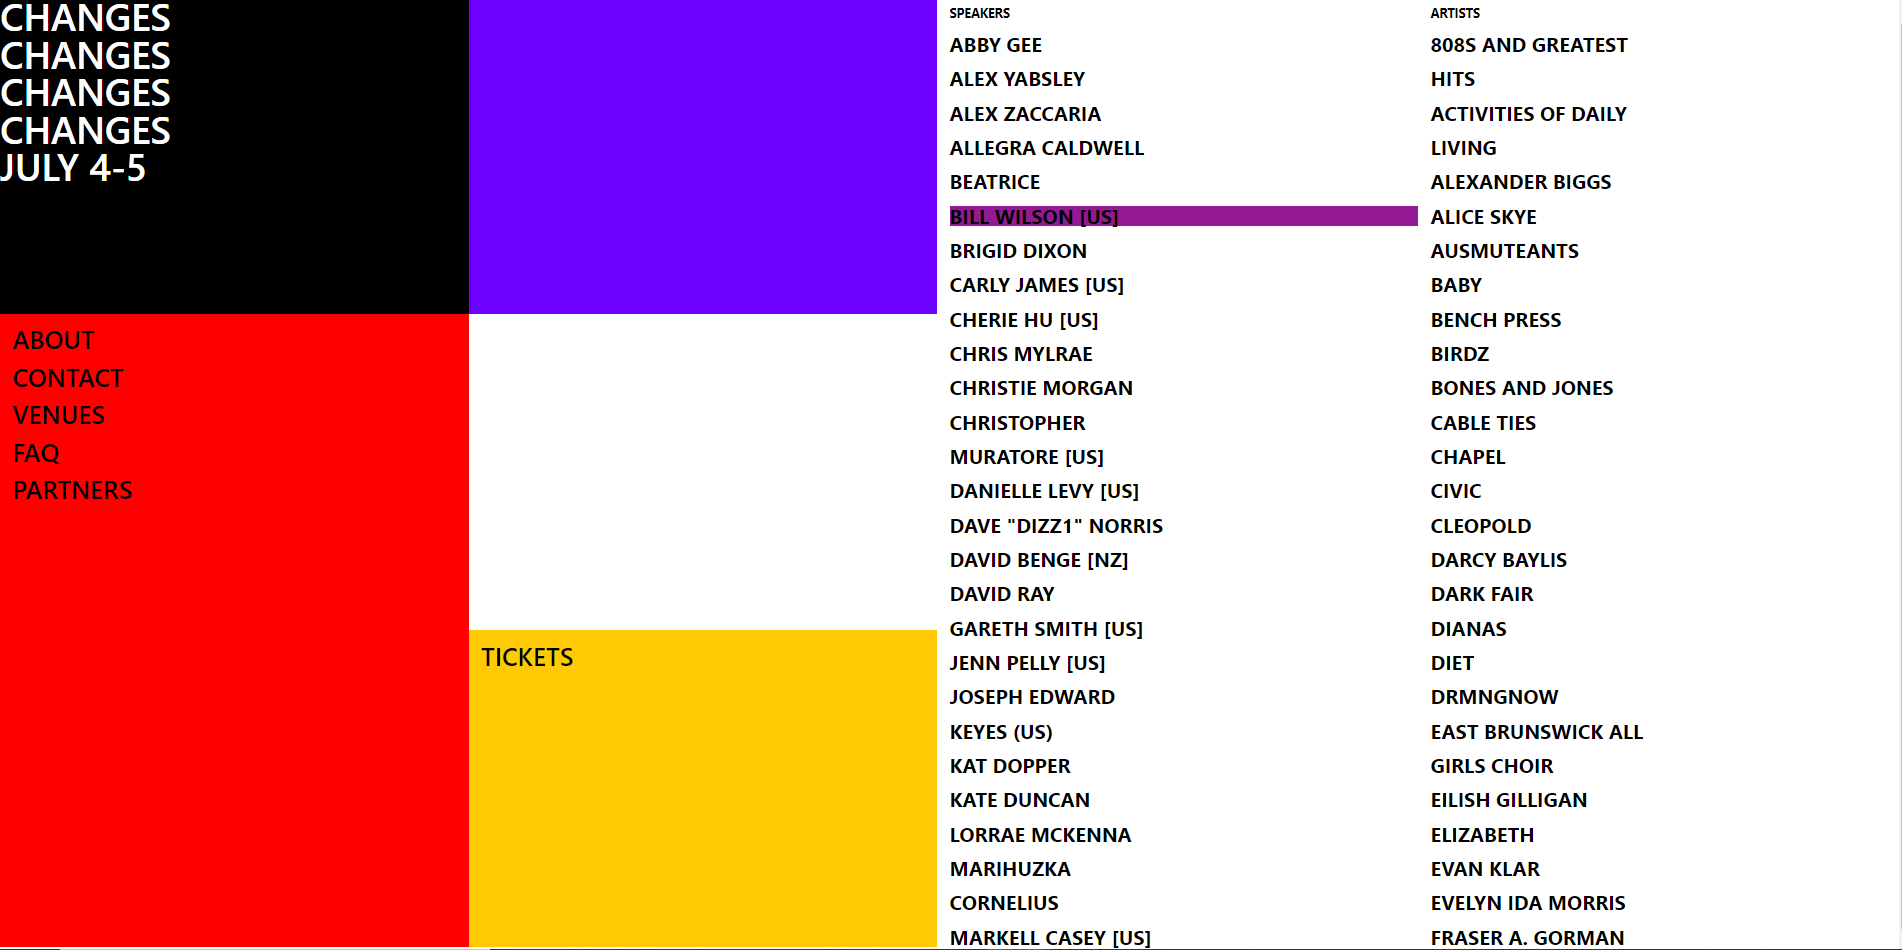
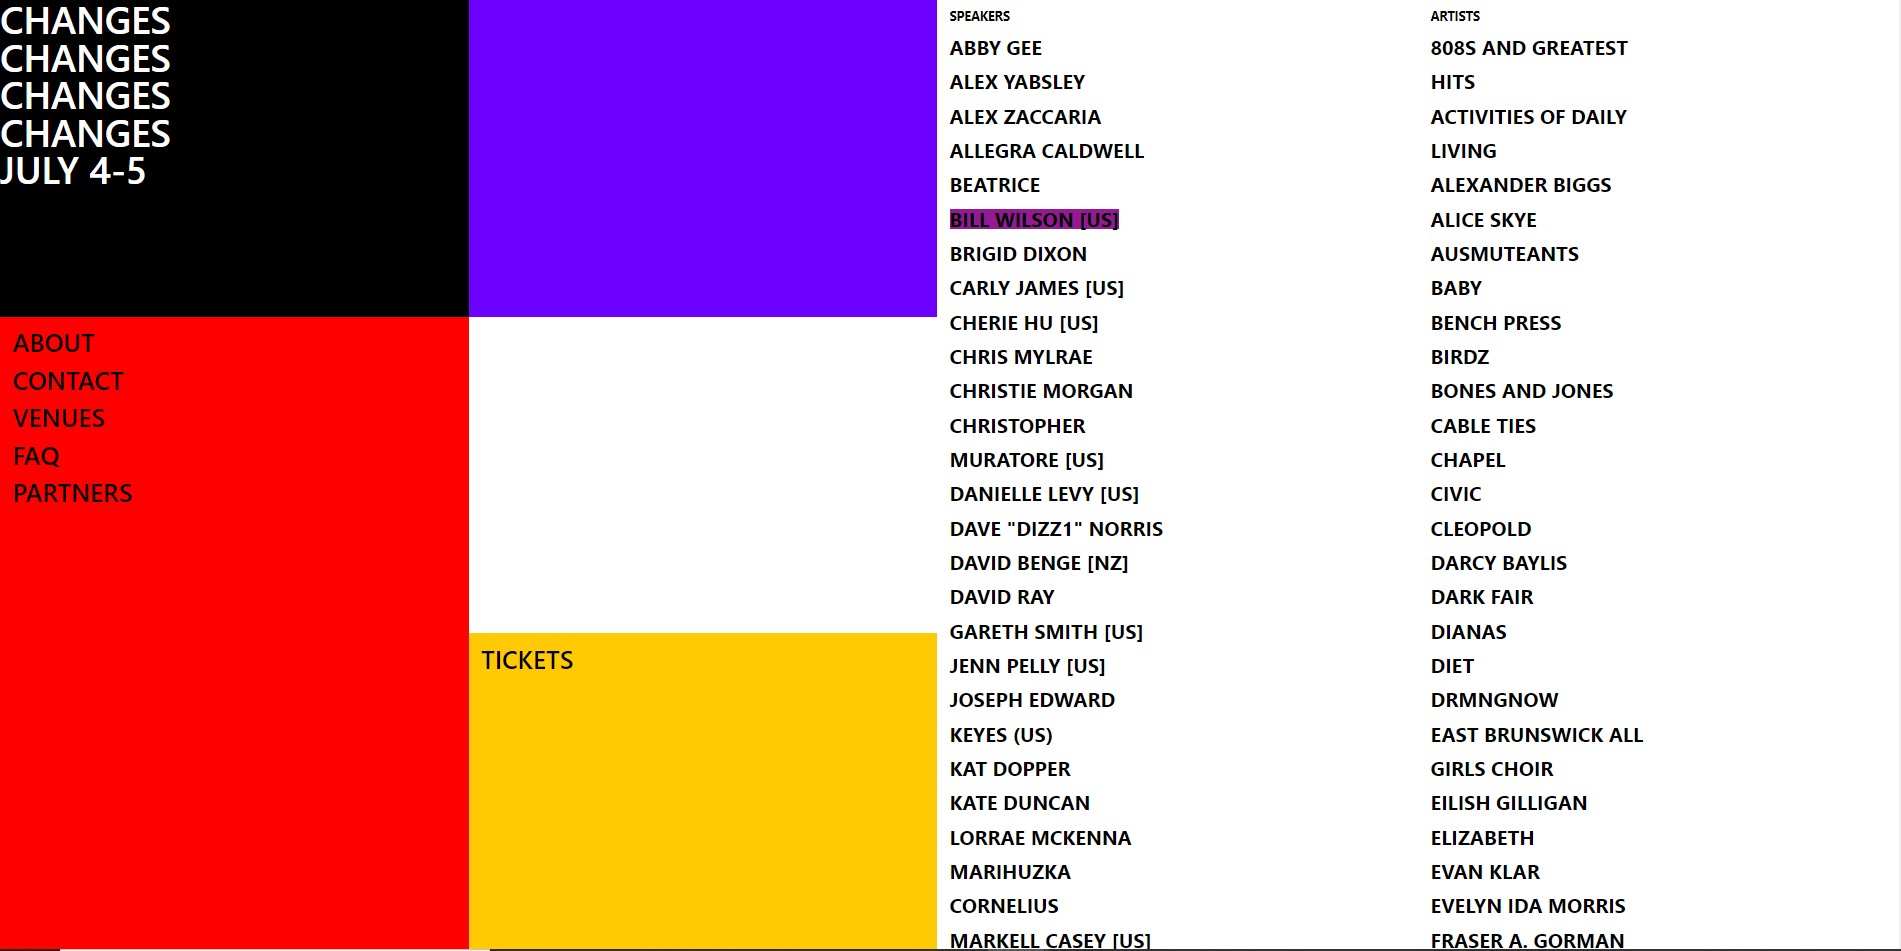
21-10-04 CSS Layout

diff --git a/5일차/index.html b/5일차/index.html
@@ -30,88 +30,88 @@
           </div>
         </div>
         <div class="flexBox1">
-          <p>SPEAKERS</p>
-          <p>ABBY GEE</p>
-          <p>ALEX YABSLEY</p>
-          <p>ALEX ZACCARIA</p>
-          <p>ALLEGRA CALDWELL</p>
-          <p>BEATRICE</p>
-          <p>BILL WILSON [US]</p>
-          <p>BRIGID DIXON</p>
-          <p>CARLY JAMES [US]</p>
-          <p> CHERIE HU [US]</p>
-          <p>CHRIS MYLRAE</p>
-          <p>CHRISTIE MORGAN</p>
-          <p>CHRISTOPHER</p>
-          <p>MURATORE [US]</p>
-          <p>DANIELLE LEVY [US] 
-          </p>
-          <p>DAVE "DIZZ1" NORRIS 
-          </p>
-          <p>DAVID BENGE [NZ] </p>
-          <p>DAVID RAY 
-          </p>
-          <p>GARETH SMITH [US] 
-          </p>
-          <p>JENN PELLY [US] 
-          </p>
-          <p>JOSEPH EDWARD 
-          </p>
-          <p>KEYES (US)</p>
-          <p>KAT DOPPER </p>
-          <p>KATE DUNCAN</p>
-          <p>LORRAE MCKENNA</p>
-          <p>MARIHUZKA</p>
-          <p>CORNELIUS</p>
-          <p>MARKELL CASEY [US]</p>
+          <span>SPEAKERS</span>
+          <span>ABBY GEE</span>
+          <span>ALEX YABSLEY</span>
+          <span>ALEX ZACCARIA</span>
+          <span>ALLEGRA CALDWELL</span>
+          <span>BEATRICE</span>
+          <span>BILL WILSON [US]</span>
+          <span>BRIGID DIXON</span>
+          <span>CARLY JAMES [US]</span>
+          <span> CHERIE HU [US]</span>
+          <span>CHRIS MYLRAE</span>
+          <span>CHRISTIE MORGAN</span>
+          <span>CHRISTOPHER</span>
+          <span>MURATORE [US]</span>
+          <span>DANIELLE LEVY [US] 
+          </span>
+          <span>DAVE "DIZZ1" NORRIS 
+          </span>
+          <span>DAVID BENGE [NZ] </span>
+          <span>DAVID RAY 
+          </span>
+          <span>GARETH SMITH [US] 
+          </span>
+          <span>JENN PELLY [US] 
+          </span>
+          <span>JOSEPH EDWARD 
+          </span>
+          <span>KEYES (US)</span>
+          <span>KAT DOPPER </span>
+          <span>KATE DUNCAN</span>
+          <span>LORRAE MCKENNA</span>
+          <span>MARIHUZKA</span>
+          <span>CORNELIUS</span>
+          <span>MARKELL CASEY [US]</span>
         </div>
         <div class="flexBox2">
-          <p>ARTISTS</p>
-          <p>808S AND GREATEST 
-          </p>
-          <p>HITS </p>
-          <p>ACTIVITIES OF DAILY 
-          </p>
-          <p>LIVING </p>
-          <p>ALEXANDER BIGGS
-          </p>
-          <p>ALICE SKYE 
-          </p>
-          <p>AUSMUTEANTS 
-          </p>
-          <p>BABY </p>
-          <p>BENCH PRESS 
-          </p>
-          <p>BIRDZ </p>
-          <p>BONES AND JONES </p>
-          <p>CABLE TIES 
-          </p>
-          <p>CHAPEL 
-          </p>
-          <p>CIVIC 
-          </p>
-          <p>CLEOPOLD </p>
-          <p>DARCY BAYLIS 
-          </p>
-          <p>DARK FAIR 
-          </p>
-          <p>DIANAS 
-          </p>
-          <p>DIET </p>
-          <p>DRMNGNOW</p>
-          <p>EAST BRUNSWICK ALL 
-          </p>
-          <p>GIRLS CHOIR
-          </p>
-          <p>EILISH GILLIGAN 
-          </p>
-          <p>ELIZABETH </p>
-          <p>EVAN KLAR 
-          </p>
-          <p>EVELYN IDA MORRIS 
-          </p>
-          <p>FRASER A. GORMAN
-          </p>
+          <span>ARTISTS</span>
+          <span>808S AND GREATEST 
+          </span>
+          <span>HITS </span>
+          <span>ACTIVITIES OF DAILY 
+          </span>
+          <span>LIVING </span>
+          <span>ALEXANDER BIGGS
+          </span>
+          <span>ALICE SKYE 
+          </span>
+          <span>AUSMUTEANTS 
+          </span>
+          <span>BABY </span>
+          <span>BENCH PRESS 
+          </span>
+          <span>BIRDZ </span>
+          <span>BONES AND JONES </span>
+          <span>CABLE TIES 
+          </span>
+          <span>CHAPEL 
+          </span>
+          <span>CIVIC 
+          </span>
+          <span>CLEOPOLD </span>
+          <span>DARCY BAYLIS 
+          </span>
+          <span>DARK FAIR 
+          </span>
+          <span>DIANAS 
+          </span>
+          <span>DIET </span>
+          <span>DRMNGNOW</span>
+          <span>EAST BRUNSWICK ALL 
+          </span>
+          <span>GIRLS CHOIR
+          </span>
+          <span>EILISH GILLIGAN 
+          </span>
+          <span>ELIZABETH </span>
+          <span>EVAN KLAR 
+          </span>
+          <span>EVELYN IDA MORRIS 
+          </span>
+          <span>FRASER A. GORMAN
+          </span>
         </div>
     </div>  
   </body>

diff --git a/5일차/style.css b/5일차/style.css
@@ -65,14 +65,15 @@ body {
   flex-direction: column;
   justify-content: space-between;
 }
-.flexBox1 > p{
+.flexBox1 > span{
   font-weight: 700;
 }
-.flexBox1 > p:nth-child(1){
+.flexBox1 > span:nth-child(1){
   margin-top: 8px;
   font-size: 10px;
 }
-.flexBox1 > p:nth-child(7){
+.flexBox1 > span:nth-child(7){
+  align-self: flex-start;
   background-color: rgb(148, 26, 148);
 }
 
@@ -83,10 +84,10 @@ body {
   flex-direction: column;
   justify-content: space-between;
 }
-.flexBox2 > p{
+.flexBox2 > span{
   font-weight: 700;
 }
-.flexBox2 > p:nth-child(1){
+.flexBox2 > span:nth-child(1){
   margin-top: 8px;
   font-size: 10px;
 }
